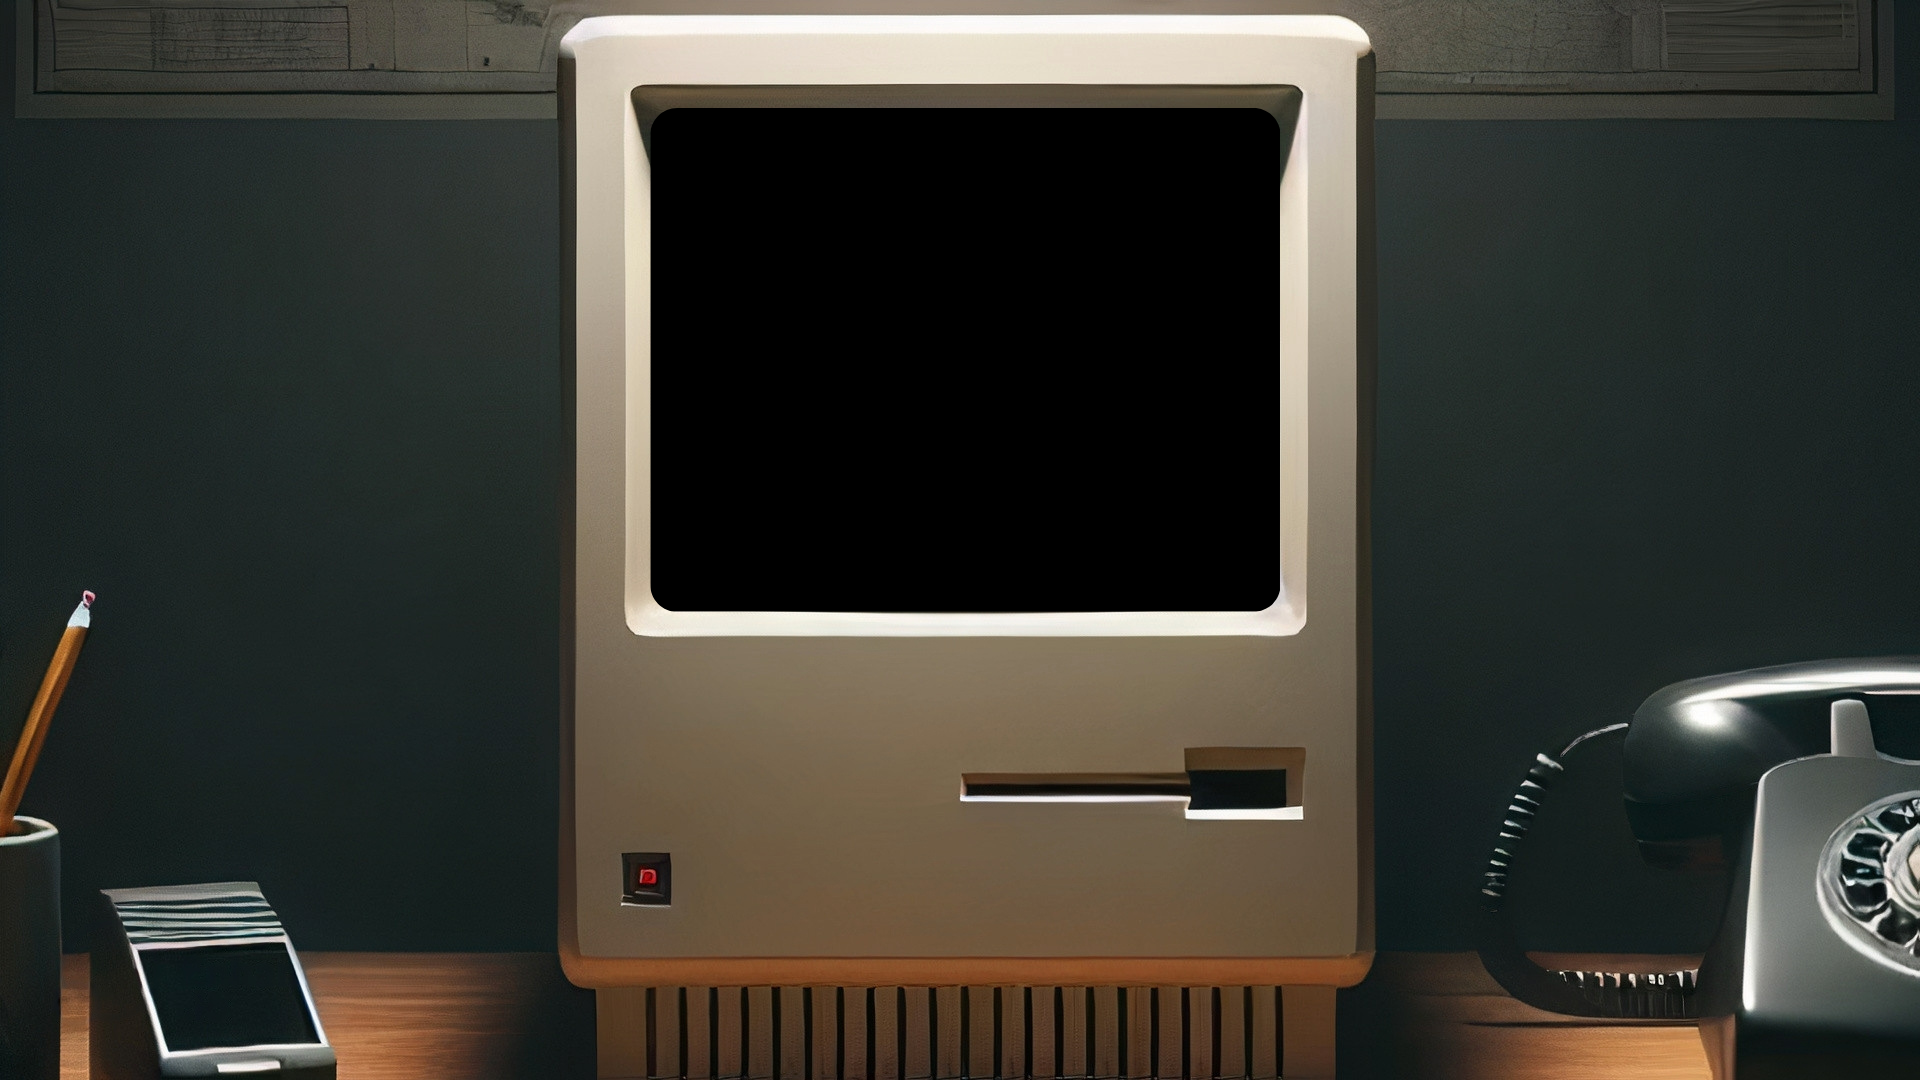
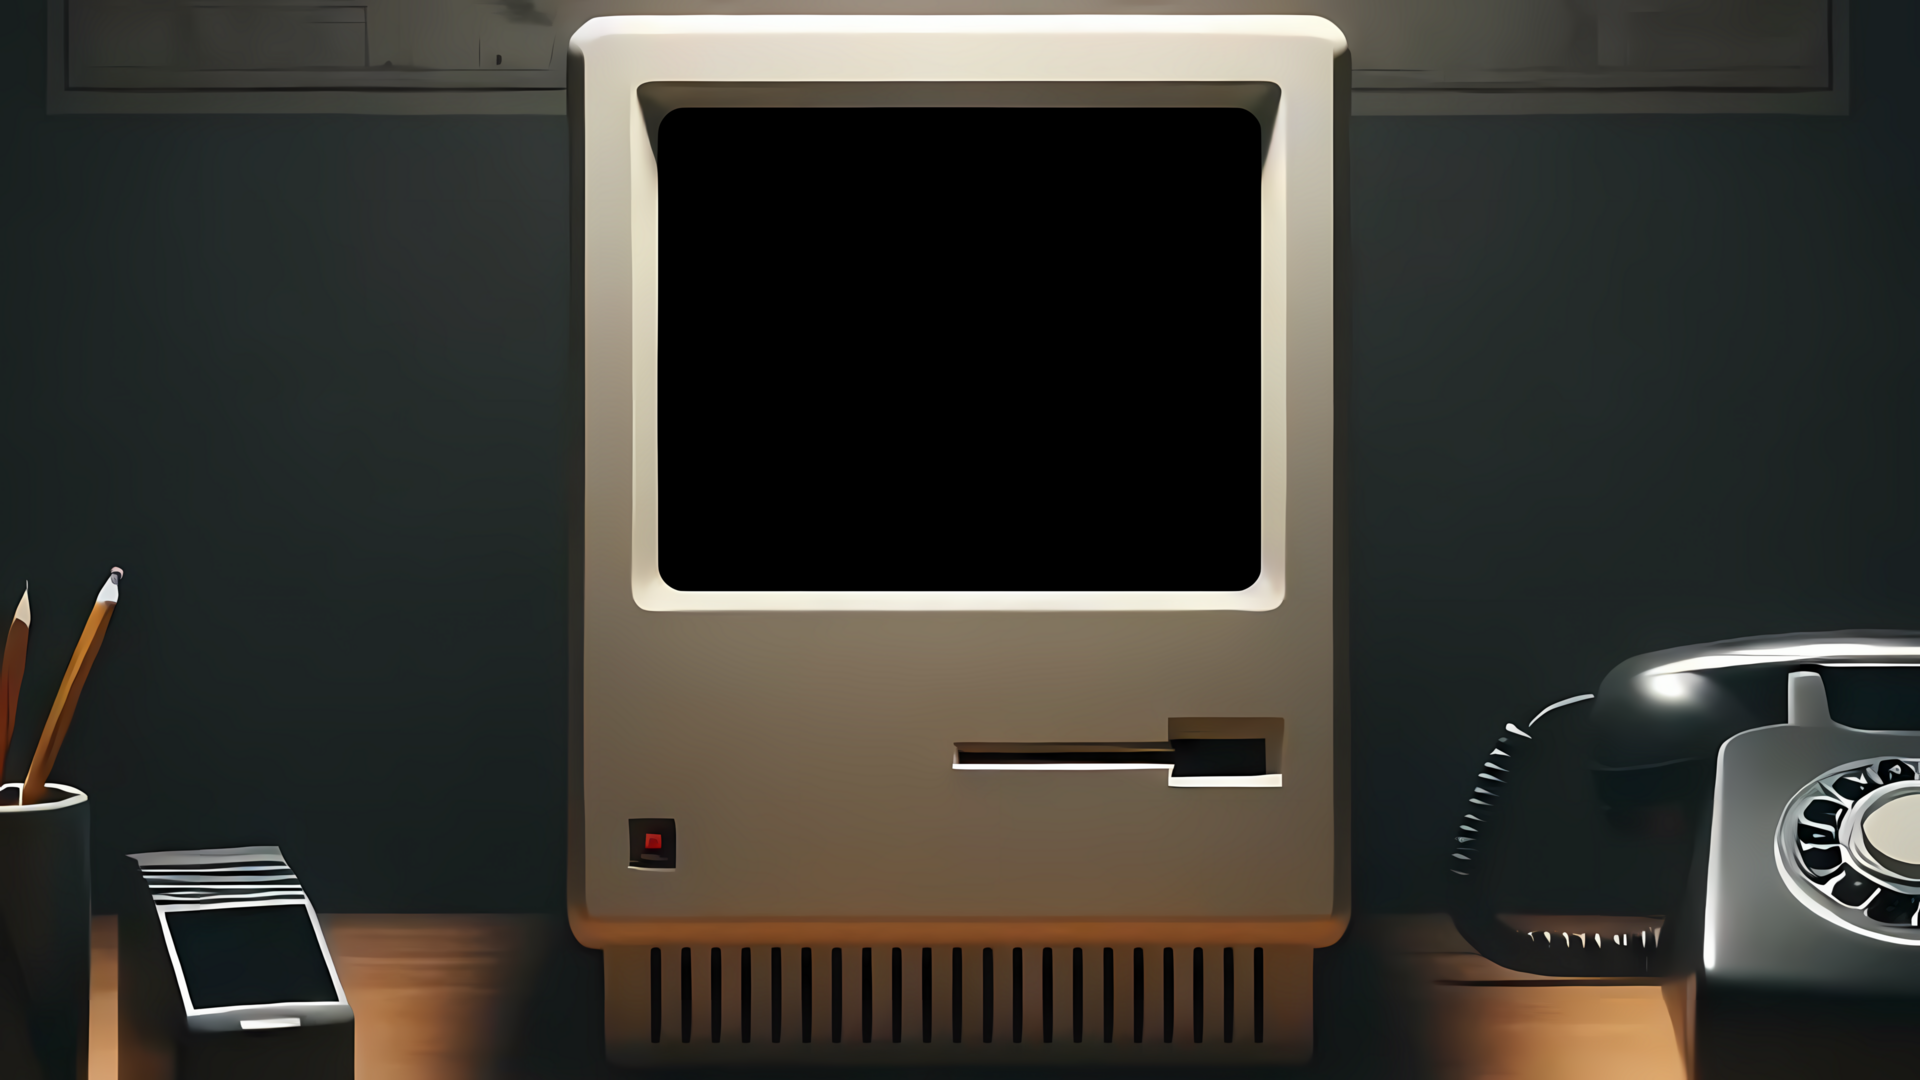
Proyecto Encriptador v3.1: Se modifica bg_macintosh.png, uso de unidades relativas en el css, se añadio un nuevo parrafo en main window, se corrigieron errores de diseño y bug de js-copy_btn.

diff --git a/style.css b/style.css
@@ -1,5 +1,5 @@
 :root{
-  --fontsize: 0.9rem;
+  --fontsize: 0.85rem;
 }
 
 * {
@@ -21,7 +21,7 @@
 }
 
 html, body {
-  font-size: 1.65vw; 
+  font-size: 1.65vw;
 }
 
 body {
@@ -53,21 +53,22 @@ body::-webkit-scrollbar-thumb {
   border-radius: 10px;
 }
 
-/* Configuracion de la pantalla */
+/* Configuracion del marco computadora */
 .main_container {
   display: block;
-  width: 810px; /*810px*/
-  height: 100vh; /* SI ESTA EN 100vh APARECE UN SCROLL */
+  width: 41vw;
+  height: 100vh;
   position: relative;
   margin: 0 auto; 
+  border: 3px solid transparent;
 }
 
 /* Ventana Principal*/
 .main_container__main_window{
-  margin-top: 80px;
-  margin-left: 104px; 
-  height: 49vh;
-  width: 75.5%;
+  position: relative;
+  margin: 10% auto;
+  width: 77.5%;
+  height: 47.5%;
   display: flex;
   flex-direction: column;
   justify-content: space-between;
@@ -83,8 +84,14 @@ body::-webkit-scrollbar-thumb {
   justify-content: space-between;
   font-size: var(--fontsize);
   text-align: justify;
-  margin: 0.3rem;
+  margin: 0.5rem;
+  margin-top: 0.3rem;
   color: #0fff50;
+}
+
+.main_container__main_window__text_container p:last-child {
+  position: absolute;
+  top: 35%;
 }
 
 .main_container__main_window__button_container {
@@ -109,13 +116,14 @@ body::-webkit-scrollbar-thumb {
 
 .main_container__main_window__footer {
   display: inline-flex;
-  margin: 0.3rem;
+  margin: 0.5rem;
+  margin-bottom: 0.3rem;
 }
 
 .main_container__main_window__footer svg {
   fill: #0fff50;
-  width: 0.8rem;
-  height: 0.8rem;
+  width: 0.75rem;
+  height: 0.75rem;
   margin-right: 0.3rem; /* En el margen se aplica un cursor*/
 }
 
@@ -126,7 +134,7 @@ body::-webkit-scrollbar-thumb {
 
 .main_container__main_window__footer p{
   color: #0fff50;
-  font-size: 0.8rem;
+  font-size: 0.75rem;
   text-align: right;
   margin-right: 0; /* Elimina el margen del último elemento */
   margin-left: auto; /* Empuja el tercer elemento hacia la derecha */
@@ -137,10 +145,10 @@ body::-webkit-scrollbar-thumb {
   position: relative; 
   z-index: 1;
   display: none;
-  margin-top: 80px;
-  margin-left: 104px;
-  height: 49vh;
-  width: 75.5%;
+  position: relative;
+  margin: 10% auto;
+  height: 47.5%;
+  width: 77.5%;
   flex-direction: column;
   justify-content: space-between;
   border: 3px solid #0fff50;
@@ -154,7 +162,7 @@ body::-webkit-scrollbar-thumb {
   z-index: 0;
   background-color: transparent;
   border-radius: 5%;
-  border: 2px solid #0fff50;
+  border: 3px solid #0fff50;
   font-size: var(--fontsize);
   color: #0fff50;
   height: 100%;
@@ -176,9 +184,9 @@ body::-webkit-scrollbar-thumb {
   display: none;
   flex-direction: column;
   align-items: center;
-  border: solid 2px #ECE81A;
+  border: 3px solid #ECE81A;
   border-radius: 5%;
-  z-index: 2; /* Añadido */
+  z-index: 2;
 }
 
 .main_container__secondary_window__alert svg {
@@ -190,7 +198,7 @@ body::-webkit-scrollbar-thumb {
 .main_container__secondary_window__alert p {
   color: #ECE81A;
   text-align: center;
-  font-size: 0.8rem;
+  font-size: 0.75rem;
 }
 
 .main_container__secondary_window__input_text:focus {
@@ -221,7 +229,7 @@ body::-webkit-scrollbar-thumb {
   font-size: var(--fontsize);
   color: #0fff50;
   width: 50%; /* REVISAR */
-  border: 2px solid #0fff50;
+  border: 3px solid #0fff50;
   margin: 0.1rem;
 }
 
@@ -248,8 +256,8 @@ body::-webkit-scrollbar-thumb {
   box-shadow: 0 0 5px 1px rgba(0, 0, 0, 0.2), 0 0 0.5px 1px black, inset 0 1px 1px -1px white, inset 0 0 1px 7.5px #47434c, inset 0 0 1px 11px black;
   padding: 10px;
   perspective: 700px;
-  margin-top: 220px;
-  margin-left: 72px;
+  margin-top: 27%;
+  margin-left: 7%;
 }
 
 .switch input {
@@ -382,30 +390,32 @@ body::-webkit-scrollbar-thumb {
   :root{
     --fontsize: 1.1rem;
   }
-  
+
+  .main_container {
+    width: 52vw;
+  }
+
   .main_container__main_window {
-    margin-top: 12.5%;
-    margin-left: 13.5%;
-    width: 600px;
-    height: 482px;
-  } 
+    margin: 13% auto;
+    height: 45.5%;
+  }
 
   .main_container__secondary_window {
-    margin-top: 12.5%;
-    margin-left: 13.5%;
-    width: 600px;
-    height: 482px;
+    margin: 13% auto;
+    height: 45.5%;
   }
+
+
   .main_container__main_window__footer svg {
-    width: 1rem;
+    width: 0.9rem;
     height: 1rem;
   }
 
   .main_container__main_window__footer p {
-    font-size: 1rem;
+    font-size: 0.9rem;
   }
 
   .main_container__secondary_window__alert p {
-    font-size: 1rem;
+    font-size: 0.9rem;
   }
 }

diff --git a/index.html b/index.html
@@ -14,8 +14,9 @@
         <!-- Ventana Principal -->
         <section class="main_container__main_window">
             <div class="main_container__main_window__text_container">
-                <p>Welcome to ROBCO Industries (TM) Termlink.</p>
+                <p>WELCOME TO ROBCO INDUSTRIES (TM) TERMLINK</p>
                 <p>System Cisco Algorithm Encriypt v6.0</p>
+                <p>Select an option:</p>
             </div>
 
             <div class="main_container__main_window__button_container">
@@ -34,7 +35,7 @@
                         <path d="M8 0C3.58 0 0 3.58 0 8c0 3.54 2.29 6.53 5.47 7.59.4.07.55-.17.55-.38 0-.19-.01-.82-.01-1.49-2.01.37-2.53-.49-2.69-.94-.09-.23-.48-.94-.82-1.13-.28-.15-.68-.52-.01-.53.63-.01 1.08.58 1.23.82.72 1.21 1.87.87 2.33.66.07-.52.28-.87.51-1.07-1.78-.2-3.64-.89-3.64-3.95 0-.87.31-1.59.82-2.15-.08-.2-.36-1.02.08-2.12 0 0 .67-.21 2.2.82.64-.18 1.32-.27 2-.27s1.36.09 2 .27c1.53-1.04 2.2-.82 2.2-.82.44 1.1.16 1.92.08 2.12.51.56.82 1.27.82 2.15 0 3.07-1.87 3.75-3.65 3.95.29.25.54.73.54 1.48 0 1.07-.01 1.93-.01 2.2 0 .21.15.46.55.38A8.01 8.01 0 0 0 16 8c0-4.42-3.58-8-8-8"/>
                     </svg>
                 </a>
-                <p>&copy; 2024 BenjaCop All right reserved</p>
+                <p>&copy; 2024 BenjaCop All Right Reserved</p>
             </div>
         </section>
 

diff --git a/app.js b/app.js
@@ -16,7 +16,7 @@ let isOnButton = document.getElementById('power_button');
 
 let btn_copy = document.createElement('button');
 btn_copy.textContent = 'Copy';
-btn_copy.addEventListener('change', copyTextArea);
+btn_copy.addEventListener('click', copyTextArea);
 
 let textArea = document.getElementsByClassName('main_container__secondary_window__input_text')[0];
 textArea.addEventListener('keyup', isValidText)
@@ -124,7 +124,7 @@ function decrypt(msg){
 }
 
 function copyTextArea(){
-    navigator.clipboard.writeText(textArea.value)
+    navigator.clipboard.writeText(textArea.value);
     textArea.value = '';
     textArea.blur();
     btn_copy.remove();
